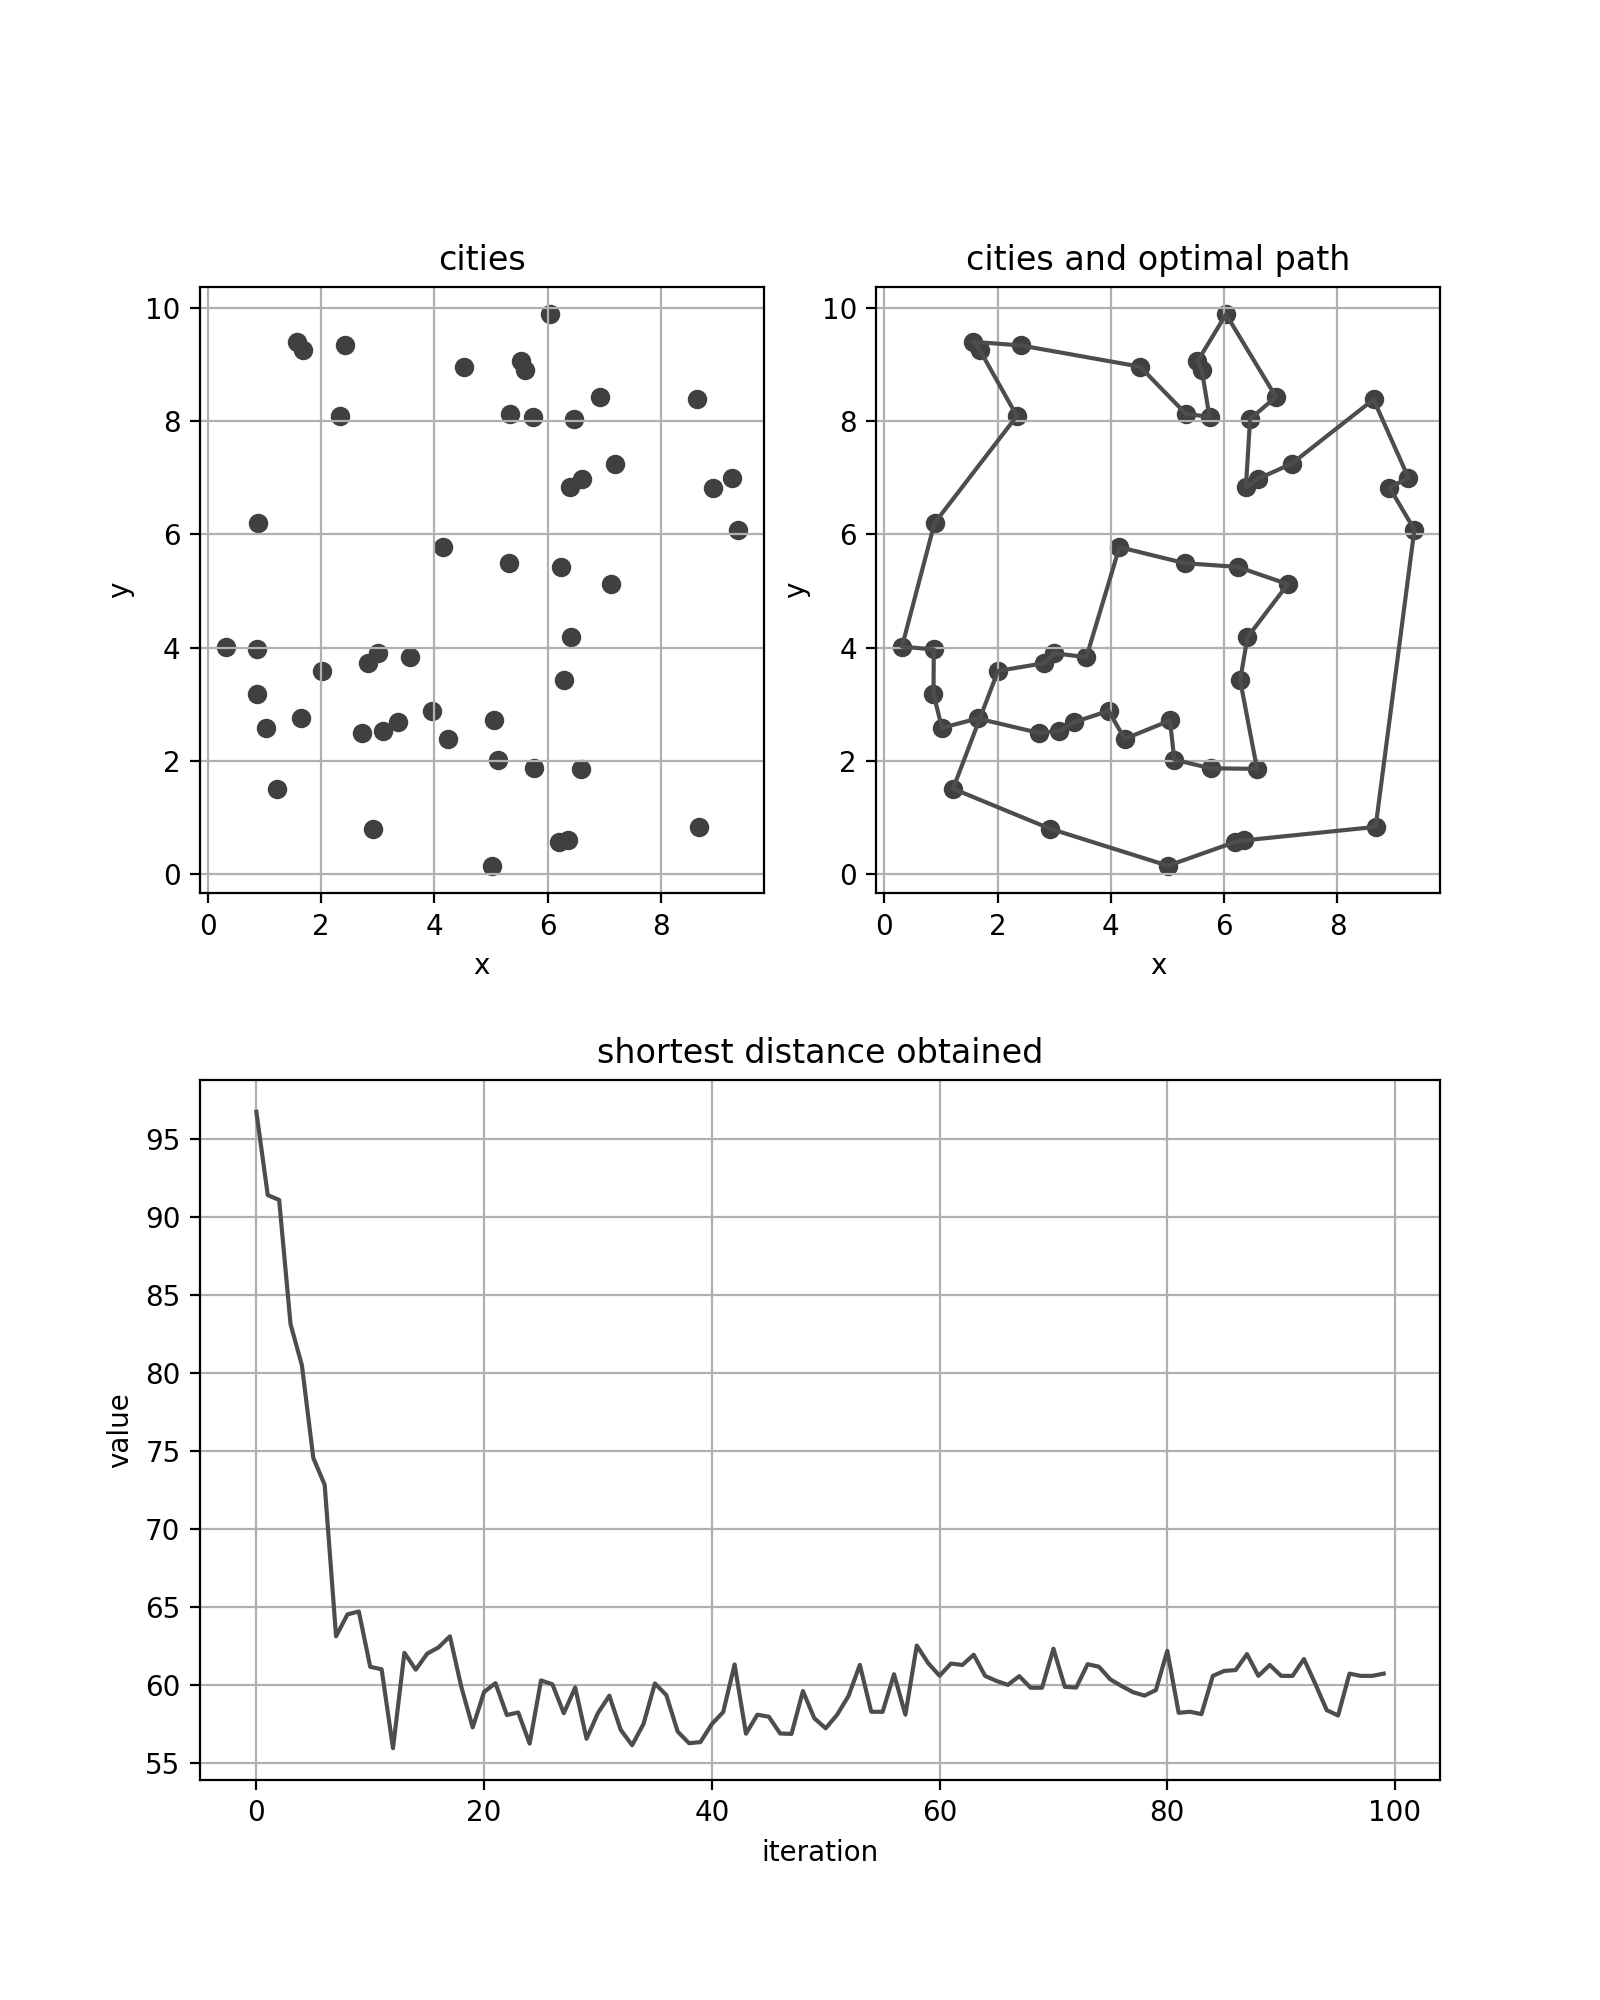
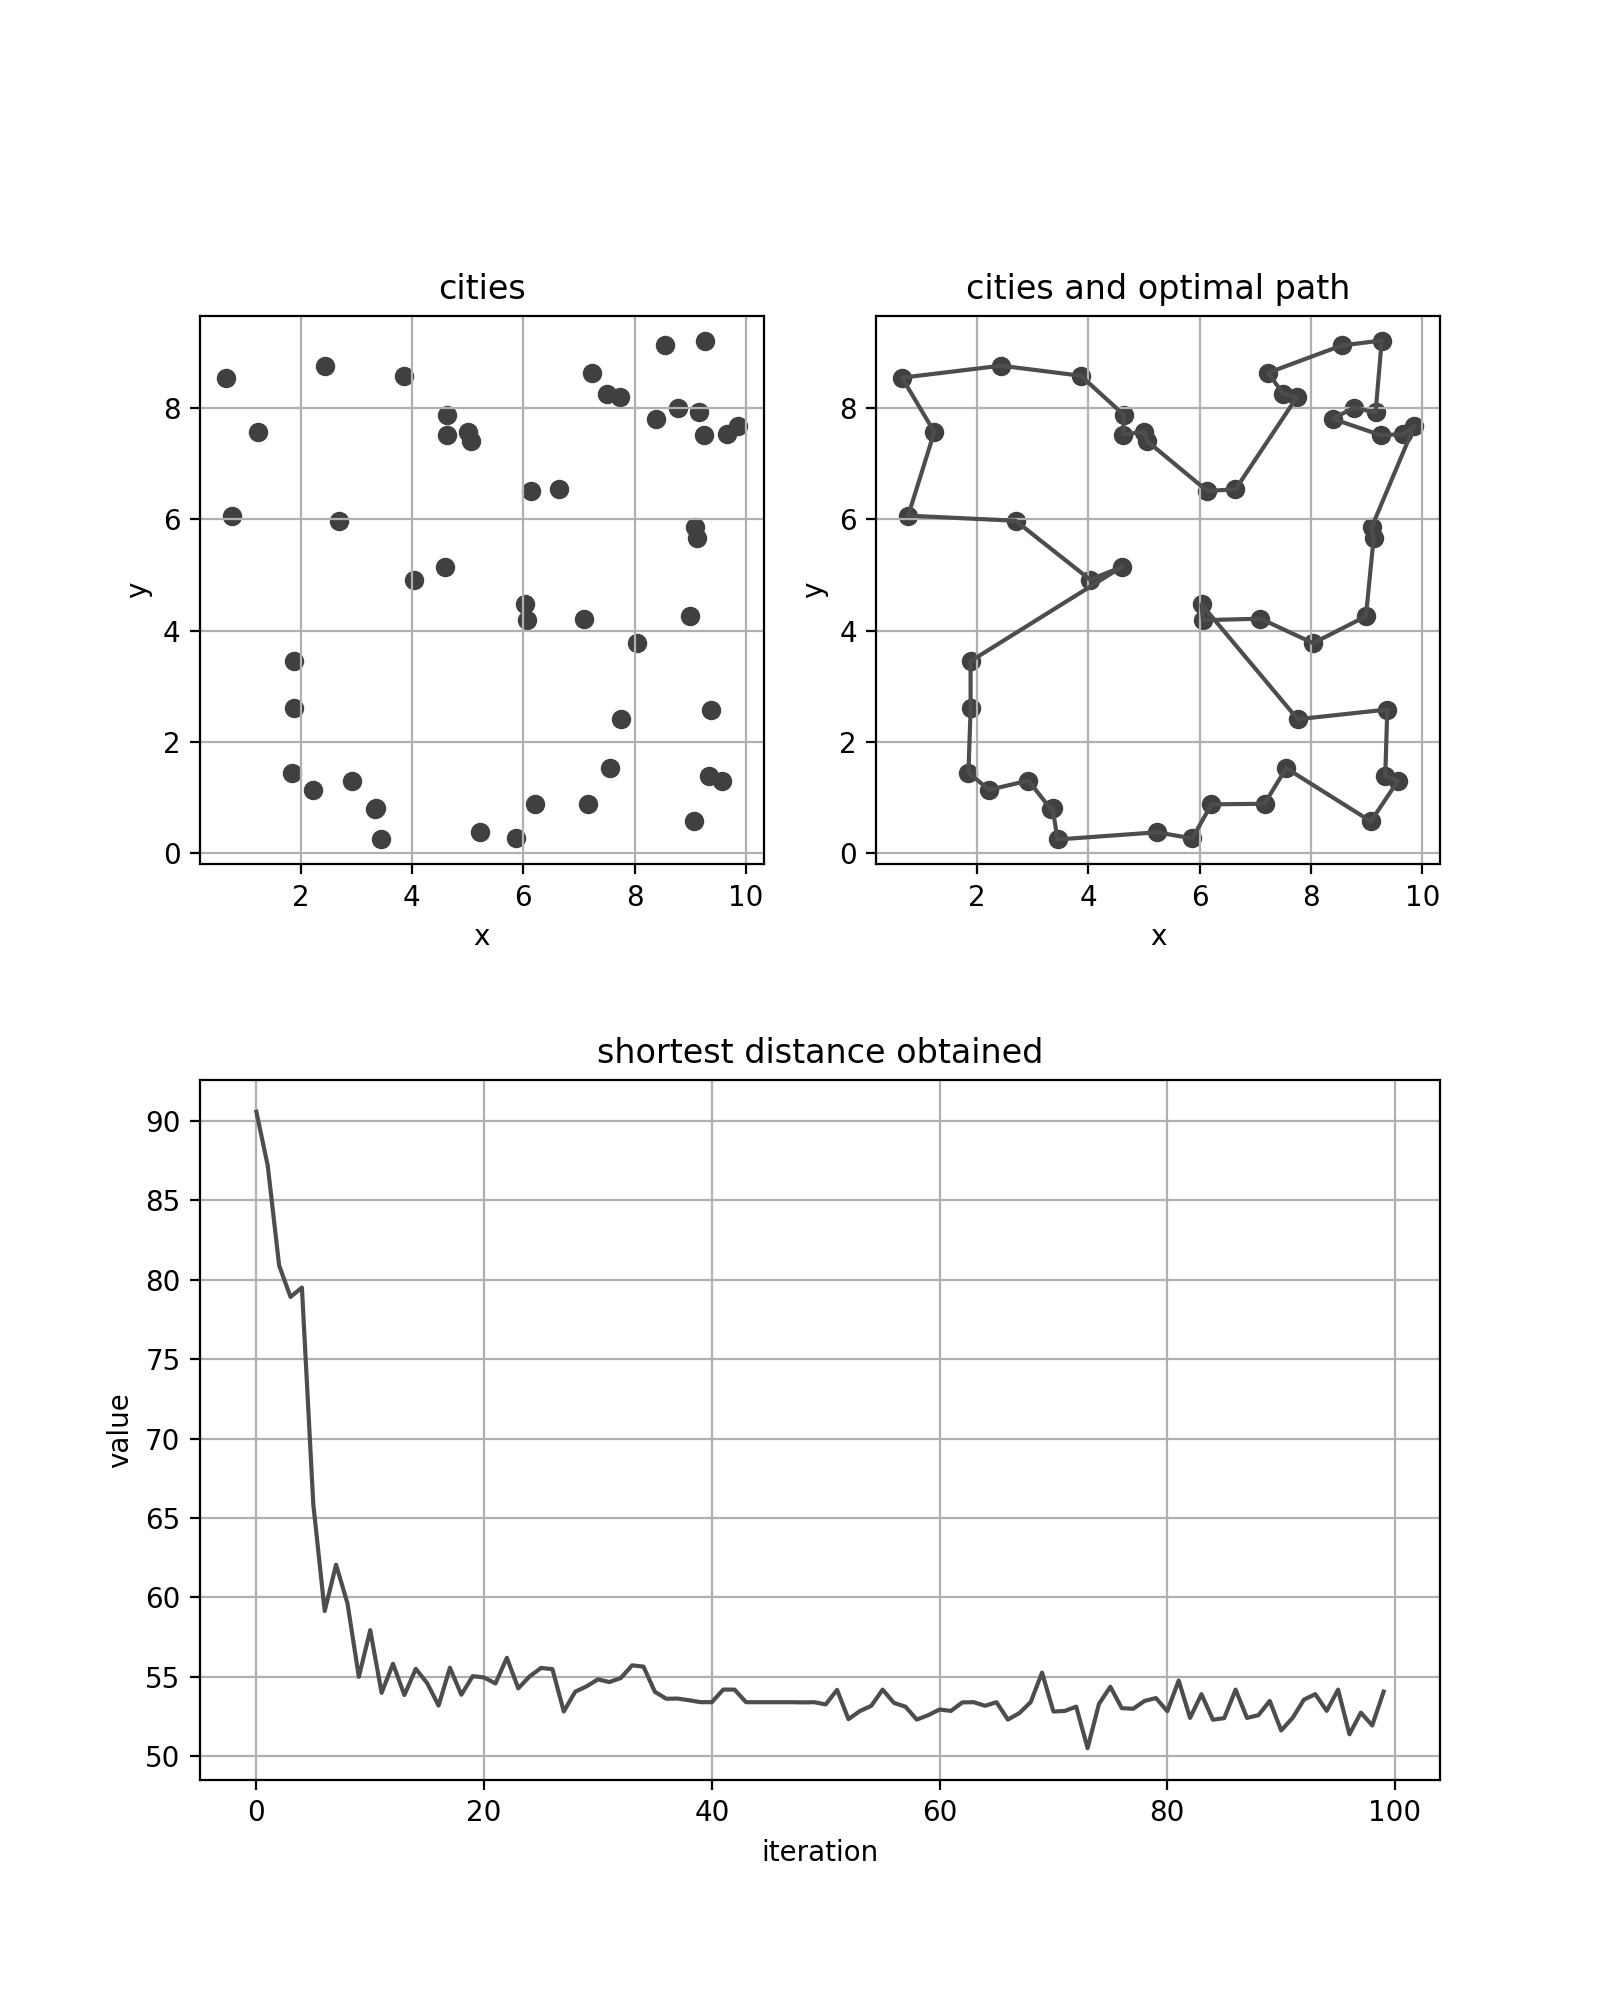
Added new plots

diff --git a/main.py b/main.py
@@ -18,7 +18,7 @@ def main():
     ])
 
     # Randomly generate cities coordinates
-    cities_number = 20
+    cities_number = 50
     cities = np.array(np.unique(np.random.random(size=(cities_number, 2)), axis=1)*10)
     print(cities)
 
@@ -26,7 +26,7 @@ def main():
     tsp = TSP(cities)
 
     # Initialize Ant System algorithm
-    m = 10
+    m = 50
     ro = 0.5
     alpha = 1
     beta = 2
